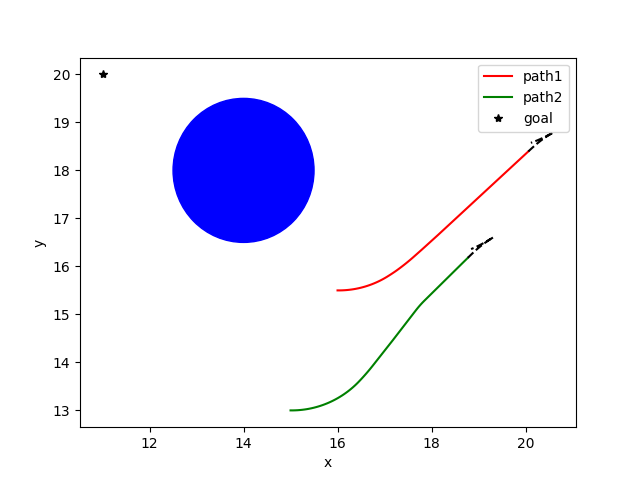
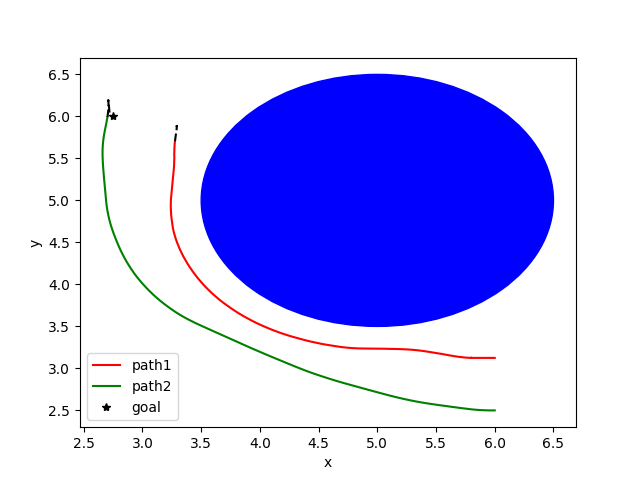
gain tuning, lead reward

diff --git a/code/single_mpc.py b/code/single_mpc.py
@@ -86,7 +86,7 @@ class MPC:
         ])
         return ds
     
-    def v1_penalty(self, s):
+    def v1_coll(self, s):
         assert self.v2pos is not None
         tol = 1/10
 
@@ -95,7 +95,7 @@ class MPC:
         ])
         return dc
     
-    def v2_penalty(self, s):
+    def v2_coll(self, s):
         assert self.v1pos is not None
         tol = 1/10
 
@@ -104,6 +104,46 @@ class MPC:
         ])
         return dc
     
+    def v1_penalty(self, s):
+        ds = jnp.array([
+            jnp.linalg.norm(s[:2] - self.v2pos)
+        ])
+        return ds
+    
+    def v2_penalty(self, s):
+        ds = jnp.array([
+            jnp.linalg.norm(s[:2] - self.v1pos)
+        ])
+        return ds
+
+    def leader(self):
+        v1cc = np.array(self.v1pos - self.circle.center)
+        v1s1 = 7 - np.clip(self.v1pos[0], 5, 7)
+        v1s2 = np.clip(self.v1pos[1], 5, 6.5) - 5
+        if v1cc[0] < 0:
+            if v1cc[1] < 0:
+                v1c = self.circle.rad*np.arctan(v1cc[0] / v1cc[1])
+            else:
+                v1c = self.circle.rad*np.pi/2
+        else:
+            v1c = 0
+
+        v2cc = np.array(self.v2pos - self.circle.center)
+        v2s1 = 7 - np.clip(self.v2pos[0], 5, 7)
+        v2s2 = np.clip(self.v2pos[1], 5, 6.5) - 5
+        if v2cc[0] < 0: 
+            if v2cc[1] < 0:
+                v2c = self.circle.rad*np.arctan(v2cc[0] / v2cc[1])
+            else:
+                v2c = self.circle.rad*np.pi/2
+        else:
+            v2c = 0
+
+        if v2s1 + v2c + v2s2 < v1s1 + v1c + v1s2:
+            return 1
+        else:
+            return 2
+
     def visualize(self, s1, a1, s2, a2):
         """
         Visualize executed MPC path with goal and track boundary.
@@ -124,8 +164,9 @@ class MPC:
         ax.legend()
 
         fig.savefig("./traj.png")
+        plt.close()
 
-    def scp(self, s_mpc, a_mpc, s0, v1, p = 0.2, Nscp = 5):
+    def scp(self, s_mpc, a_mpc, s0, v1, ahead, p = 0.2, Nscp = 5):
         solve = True
 
         # --------- Zero Init. ----------
@@ -139,17 +180,29 @@ class MPC:
             Ad, Bd, cd = affinize(self.dynamics, s_prev[:-1], a_prev) # Dynamics
             Ad, Bd, cd = np.array(Ad), np.array(Bd), np.array(cd)
 
-            Ab, __, cb = affinize(lambda s, __ : self.inner_boundary(s), s_prev, jnp.concatenate((a_prev, a_prev[-1:]))) # Inner boundary (boundary 1)
+            Ab, __, cb = affinize(lambda s, __ : self.inner_boundary(s), s_prev, jnp.concatenate((a_prev, a_prev[-1:]))) # Track boundary
             Ab, cb = np.array(Ab), np.array(cb)
 
-            cost = cp.quad_form(s_mpc[-1]-self.s_goal, self.P) + cp.sum([cp.quad_form(s_mpc[i]-self.s_goal, self.Q) + cp.quad_form(a_mpc[i], self.R) for i in np.arange(self.N)])
-            cost += cp.sum(cp.square(cp.inv_pos(s_mpc[:, :2] - self.v1pos[None, :]))) if v1 else cp.sum(cp.square(cp.inv_pos(s_mpc[:, :2] - self.v2pos[None, :])))
+            Ac, __, cc = affinize(lambda s, __ : self.v1_coll(s), s_prev, jnp.concatenate((a_prev, a_prev[-1:]))) if v1 else affinize(lambda s, __ : self.v2_coll(s), s_prev, jnp.concatenate((a_prev, a_prev[-1:]))) # Collision 
+            Ac, cc = np.array(Ac), np.array(cc)
 
+            Ar, __, cr = affinize(lambda s, __ : self.v1_penalty(s), s_prev, jnp.concatenate((a_prev, a_prev[-1:]))) if v1 else affinize(lambda s, __ : self.v2_penalty(s), s_prev, jnp.concatenate((a_prev, a_prev[-1:])))
+            Ar, cr = np.array(Ar), np.array(cr)
+
+            cost = cp.quad_form(s_mpc[-1]-self.s_goal, self.P) + cp.sum([cp.quad_form(s_mpc[i]-self.s_goal, self.Q) + cp.quad_form(a_mpc[i], self.R) for i in np.arange(self.N)])
+            
             cons = [s_mpc[0] == s0] # IC
             cons += [cp.abs(a_mpc[:, 0]) <= self.vm] + [cp.abs(a_mpc[:, 1]) <= self.pm] # Control space
             cons += [s_mpc[i+1] == Ad[i] @ s_mpc[i] + Bd[i] @ a_mpc[i] + cd[i] for i in np.arange(self.N)] # Dynamics
             cons += [Ab[i] @ s_mpc[i] + cb[i] >= 0 for i in np.arange(self.N+1)] # Track limtis 
+            cons += [Ac[i] @ s_mpc[i] + cc[i] >= 0 for i in np.arange(self.N+1)] # Collision Constraint
             cons += [cp.norm_inf(s_mpc - s_prev) <= p] + [cp.abs(a_mpc - a_prev) <= np.array([[1, 0.2]])] # Trust regions
+
+            # Encourage increasing lead, decreasing trailing distance
+            if ahead:
+                cost -= 5e1*cp.sum([Ar[i] @ s_mpc[i] + cr[i] for i in np.arange(self.N+1)])
+            else:
+                cost += 2.5e2*cp.sum([Ar[i] @ s_mpc[i] + cr[i] for i in np.arange(self.N+1)]) 
 
             prob = cp.Problem(cp.Minimize(cost), cons)
             prob.solve(solver = cp.SCS)
@@ -171,11 +224,8 @@ class MPC:
         s01 = cp.Parameter(n,); s01.value = s1_init
         s02 = cp.Parameter(n,); s02.value = s2_init
 
-        s_mpc1 = cp.Variable((self.N+1, n)) # mpc variables
-        a_mpc1 = cp.Variable((self.N, m))
-
-        s_mpc2 = cp.Variable((self.N+1, n)) # mpc variables
-        a_mpc2 = cp.Variable((self.N, m))
+        s_mpc = cp.Variable((self.N+1, n)) # mpc variables
+        a_mpc = cp.Variable((self.N, m))
 
         s1 = np.zeros((sim_steps, self.N+1, n)) # car 1: table for all mpc sims
         a1 = np.zeros((sim_steps, self.N, m))
@@ -194,12 +244,25 @@ class MPC:
 
             self.v1pos = s01.value[:2] # store xy pos for collision check
             self.v2pos = s02.value[:2] 
+            leader = self.leader()
 
-            s1[k], a1[k], solve1 = self.scp(s_mpc1, a_mpc1, s01.value, v1 = True) # rollout vehicle 1
-            s2[k], a2[k], solve2 = self.scp(s_mpc2, a_mpc2, s02.value, v1 = False) # rollout vehicle 2
+            s1[k], a1[k], solve1 = self.scp(
+                s_mpc, 
+                a_mpc, 
+                s01.value,
+                v1 = True,
+                ahead = leader == 1) # rollout vehicle 1
+            s2[k], a2[k], solve2 = self.scp(
+                s_mpc, 
+                a_mpc, 
+                s02.value,
+                v1 = False,
+                ahead = leader == 2) # rollout vehicle 2
 
             s01.value = np.array(self.dynamics(s01.value, a1[k, 0])) if solve1 else s01.value # execute dynamics
             s02.value = np.array(self.dynamics(s02.value, a2[k, 0])) if solve2 else s02.value
+            if k > 0:
+                self.visualize(s1[:k], a1[:k], s2[:k], a2[:k])
 
             if not solve1 or not solve2:
                 print("CVXPY failed: infeasible solution at step " + str(k))
@@ -219,17 +282,17 @@ class MPC:
 def main():
     n = 3 # state, control dimension 
     m = 2
-    P = 1e3*np.eye(n) # cost-to-go approx.
+    P = 2e4*np.eye(n) # cost-to-go approx.
     Q = np.eye(n) # state stage cost
     R = np.eye(m) # control stage cost
 
     N = 30
     T = 10
-    s_goal = np.array([11, 20, np.pi/2]) 
-    s1_init = np.array([16, 15.5, np.pi])
-    s2_init = np.array([15, 13, np.pi])
+    s_goal = np.array([2.75, 6, np.pi/2]) 
+    s1_init = np.array([6, 3.125, np.pi])
+    s2_init = np.array([6, 2.5, np.pi])
 
-    L = 2 # car width (approx. as a circle)
+    L = 1/2 # car width (approx. as a circle)
     vm = 10 # maximum velocity
     pm = np.pi/4 # maximum steering angle
     
@@ -238,7 +301,7 @@ def main():
     # Configure optimization
     mpc.set_time(T, dt = 0.01)
     mpc.set_dynamics(vm, pm, L)
-    mpc.track_circle(14, 18, 1.5)
+    mpc.track_circle(5, 5, 1.5)
 
     # Execute
     mpc.do_mpc(s1_init, s2_init)
